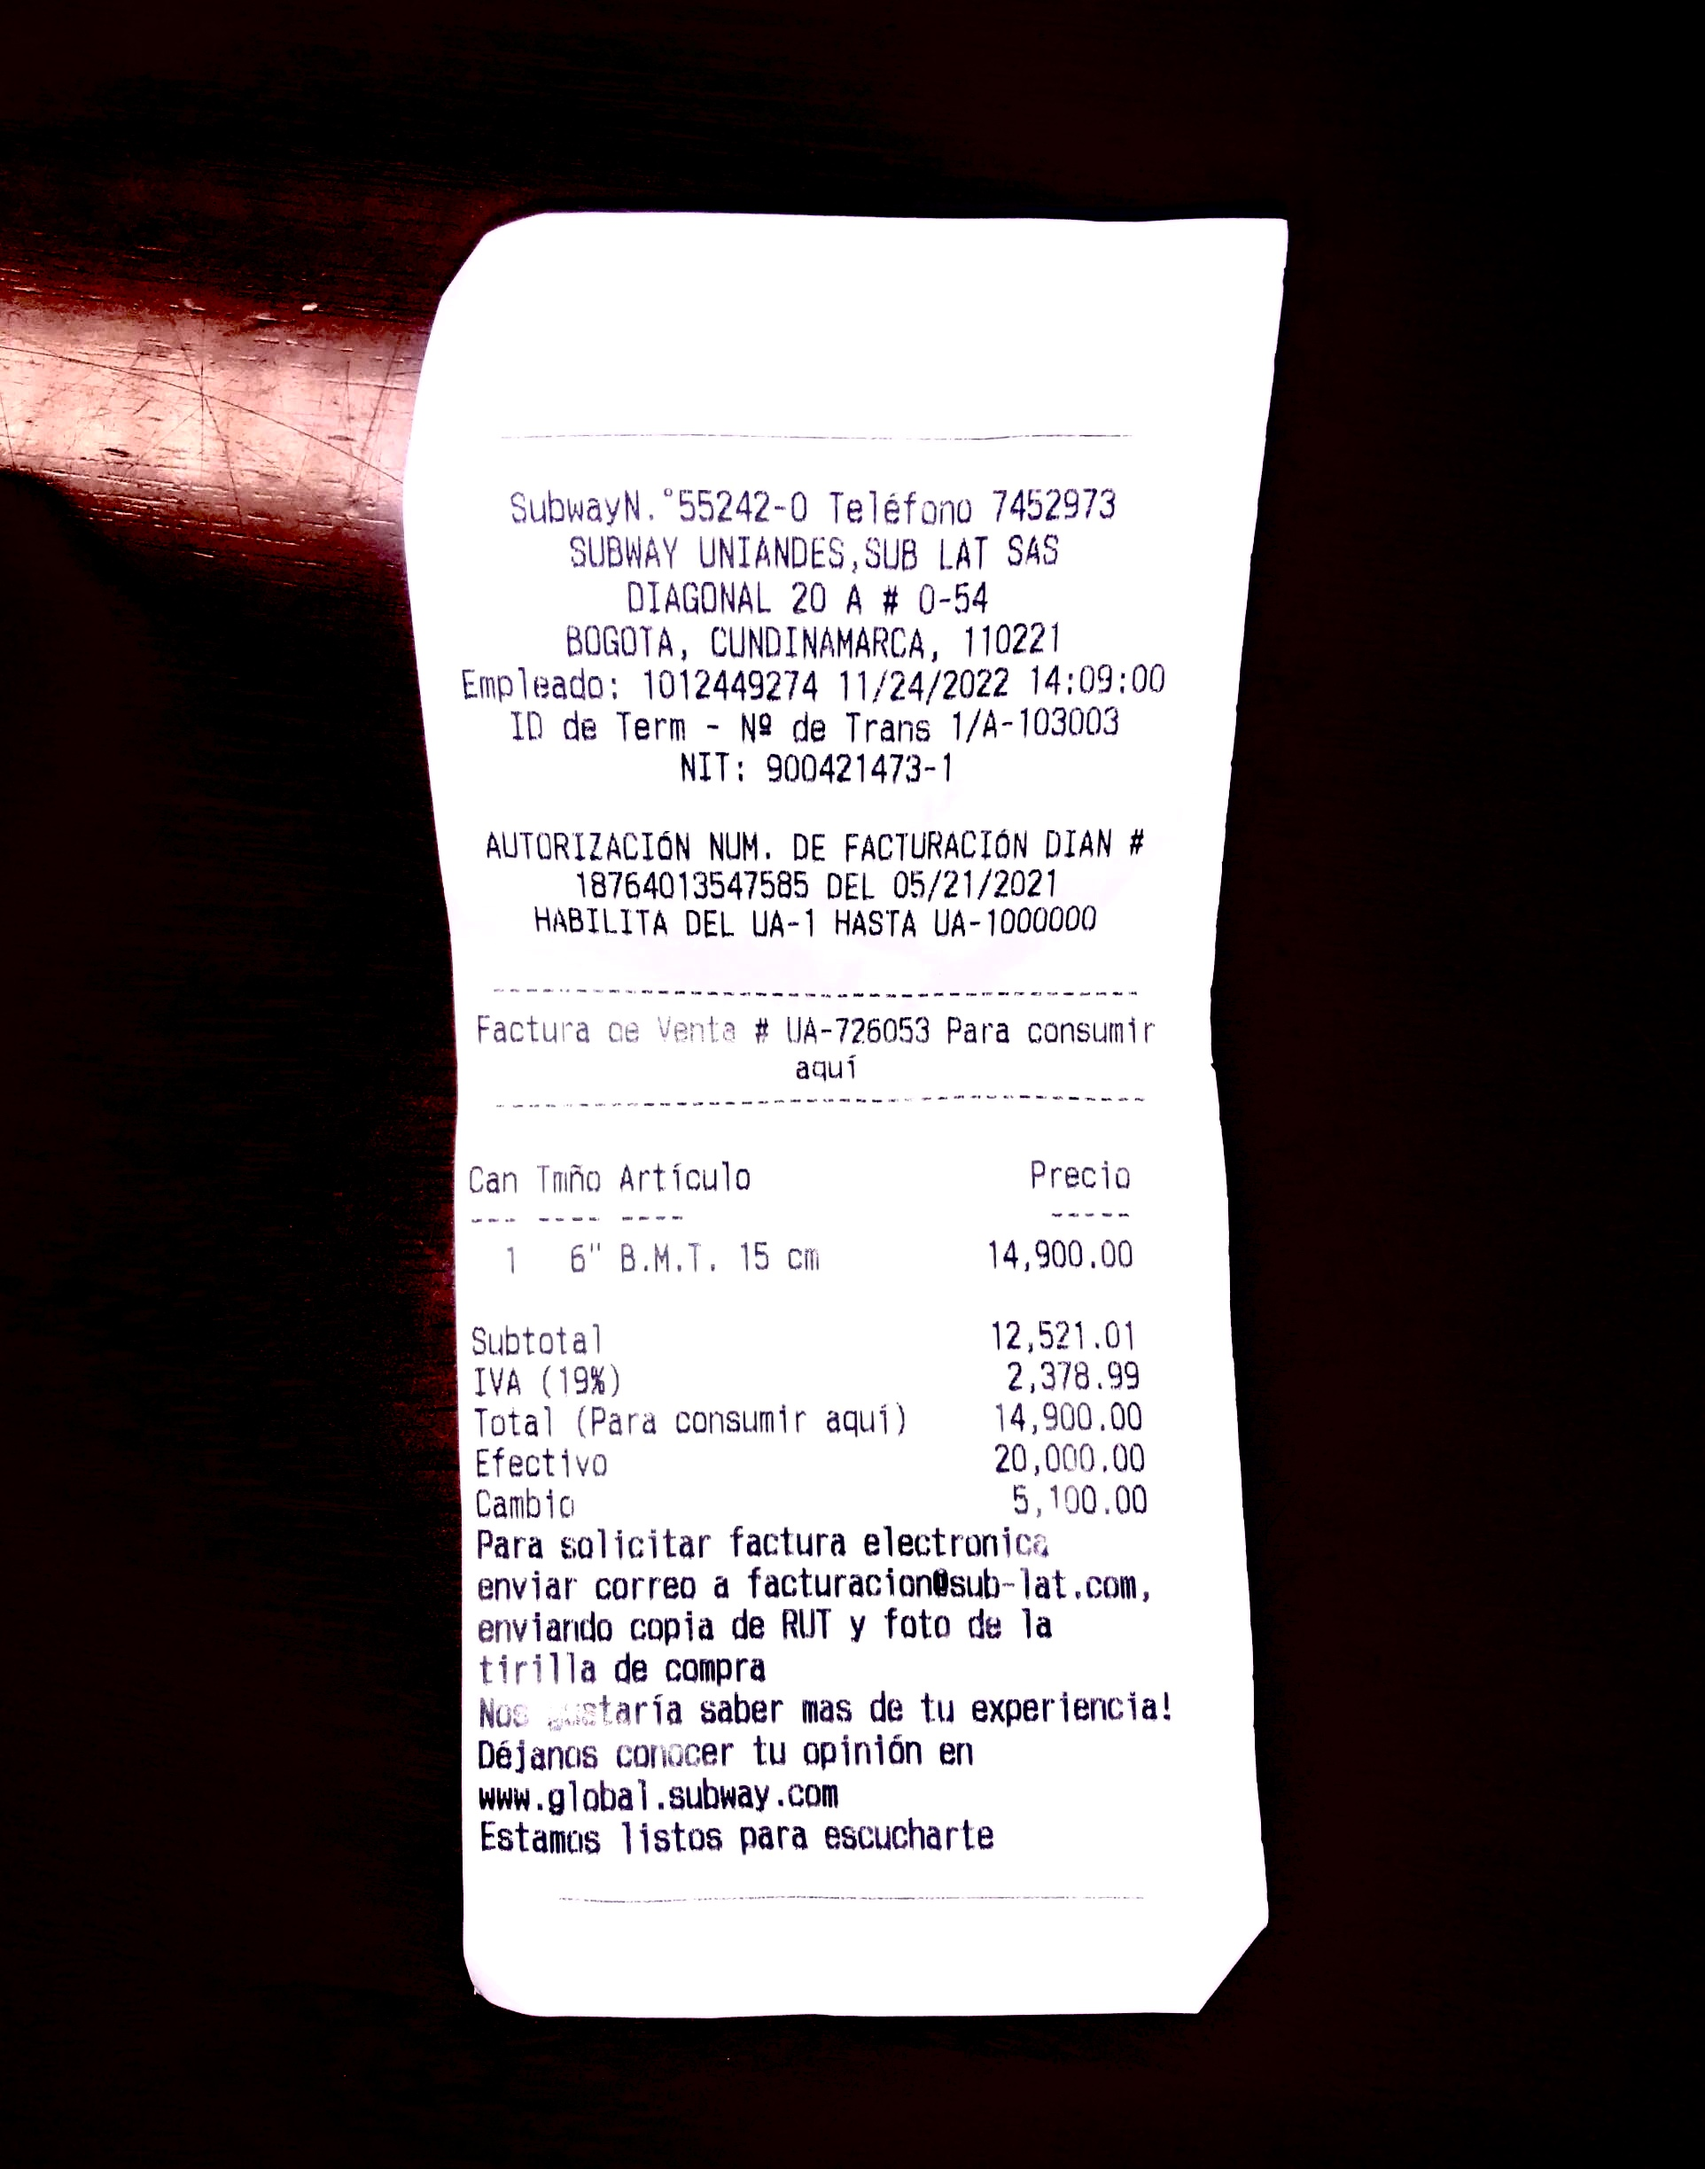
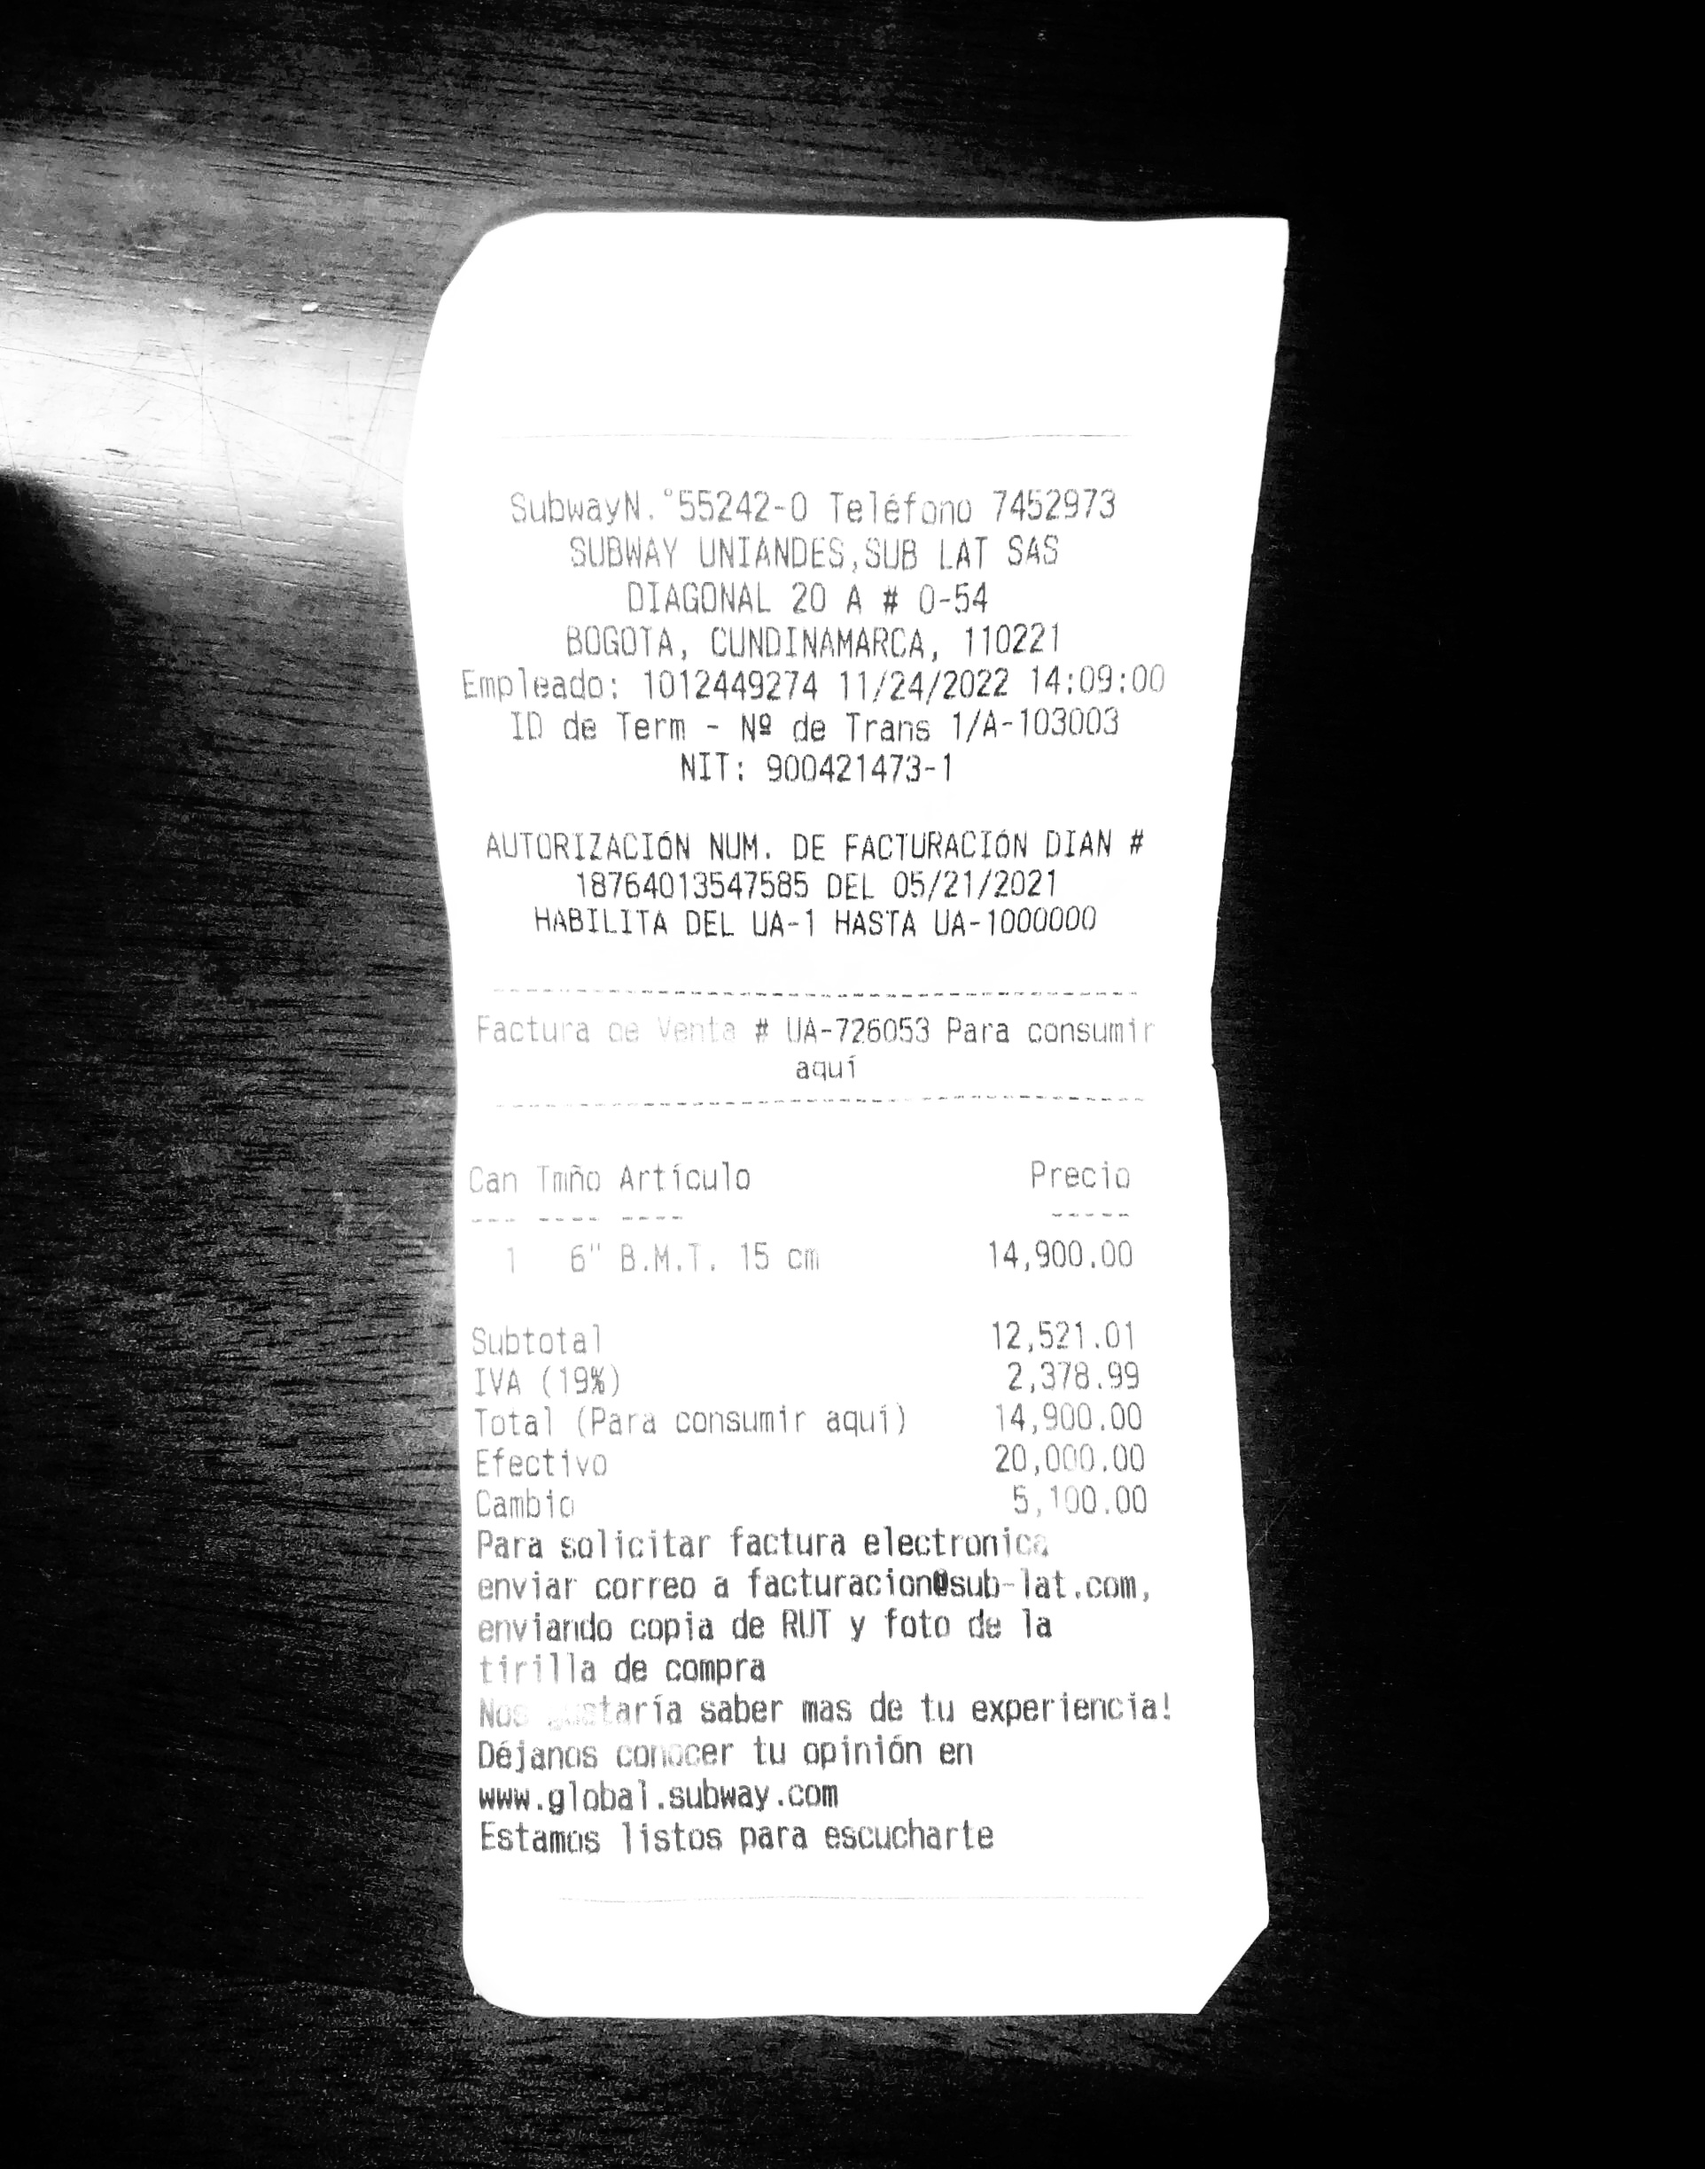
Incorporación de nuevas imagenes

diff --git a/Development/Image Processing/shadow.py b/Development/Image Processing/shadow.py
@@ -43,19 +43,15 @@ for i in range(y_cb_cr_img.shape[0]):
             spi_s = spi_s + y_cb_cr_img[i, j, 0]
             n_s += 1
 
-# get the average pixel intensities in the lit areas
 average_ld = spi_la / n_la
 
-# get the average pixel intensities in the shadow
 average_le = spi_s / n_s
 
-# difference of the pixel intensities in the shadow and lit areas
 i_diff = average_ld - average_le
 
-# get the ratio between average shadow pixels and average lit pixels
 ratio_as_al = average_ld / average_le
 
-# added these difference
+
 for i in range(y_cb_cr_img.shape[0]):
     for j in range(y_cb_cr_img.shape[1]):
         if erosion[i, j, 0] == 255 and erosion[i, j, 1] == 255 and erosion[i, j, 2] == 255:
@@ -63,11 +59,9 @@ for i in range(y_cb_cr_img.shape[0]):
             y_cb_cr_img[i, j] = [y_cb_cr_img[i, j, 0] + i_diff, y_cb_cr_img[i, j, 1] + ratio_as_al,
                                  y_cb_cr_img[i, j, 2] + ratio_as_al]
 
-# covert the YCbCr image to the BGR image
 final_image = cv2.cvtColor(y_cb_cr_img, cv2.COLOR_YCR_CB2BGR)
 
 cv2.imshow("im1", or_img)
 cv2.imshow("im2", final_image)
 cv2.waitKey(0)
 cv2.destroyAllWindows()
-
